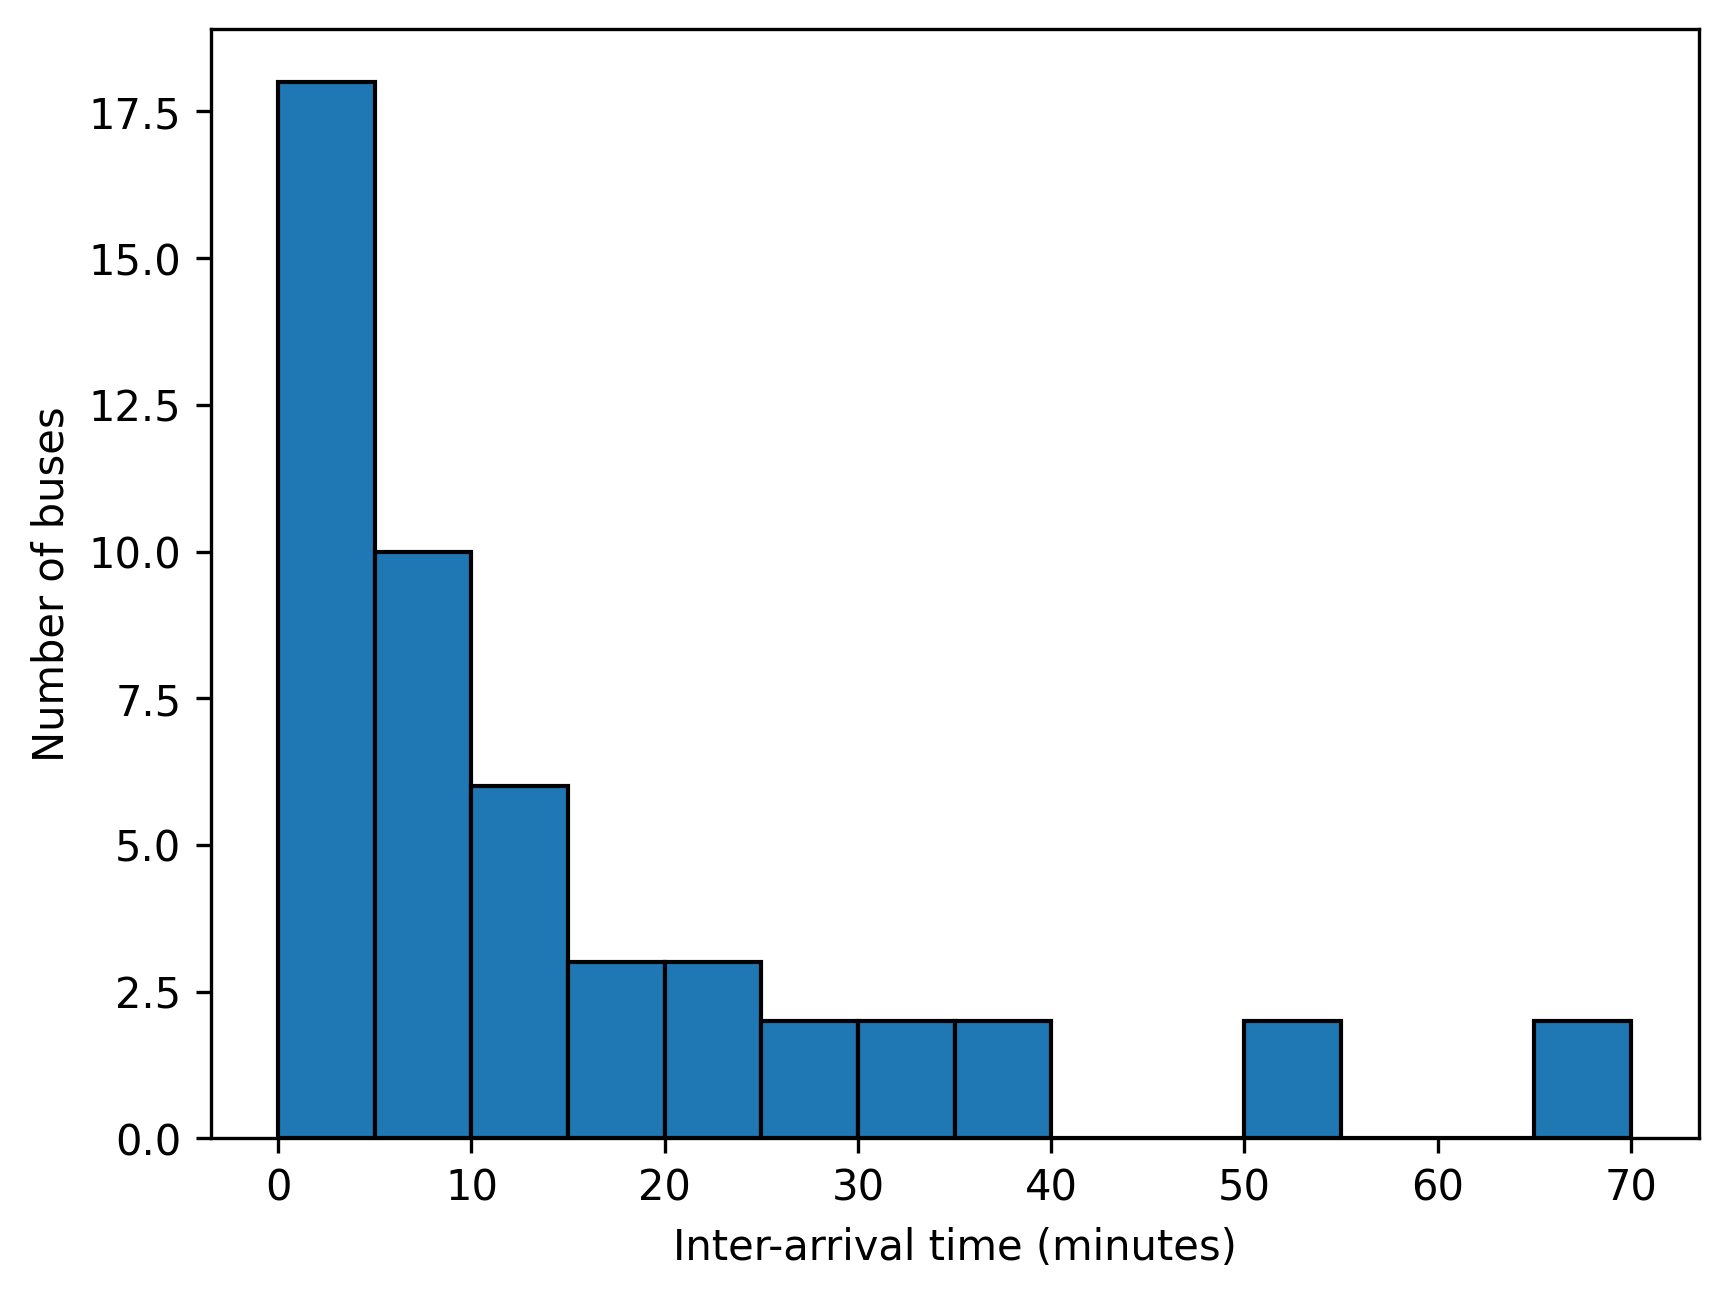
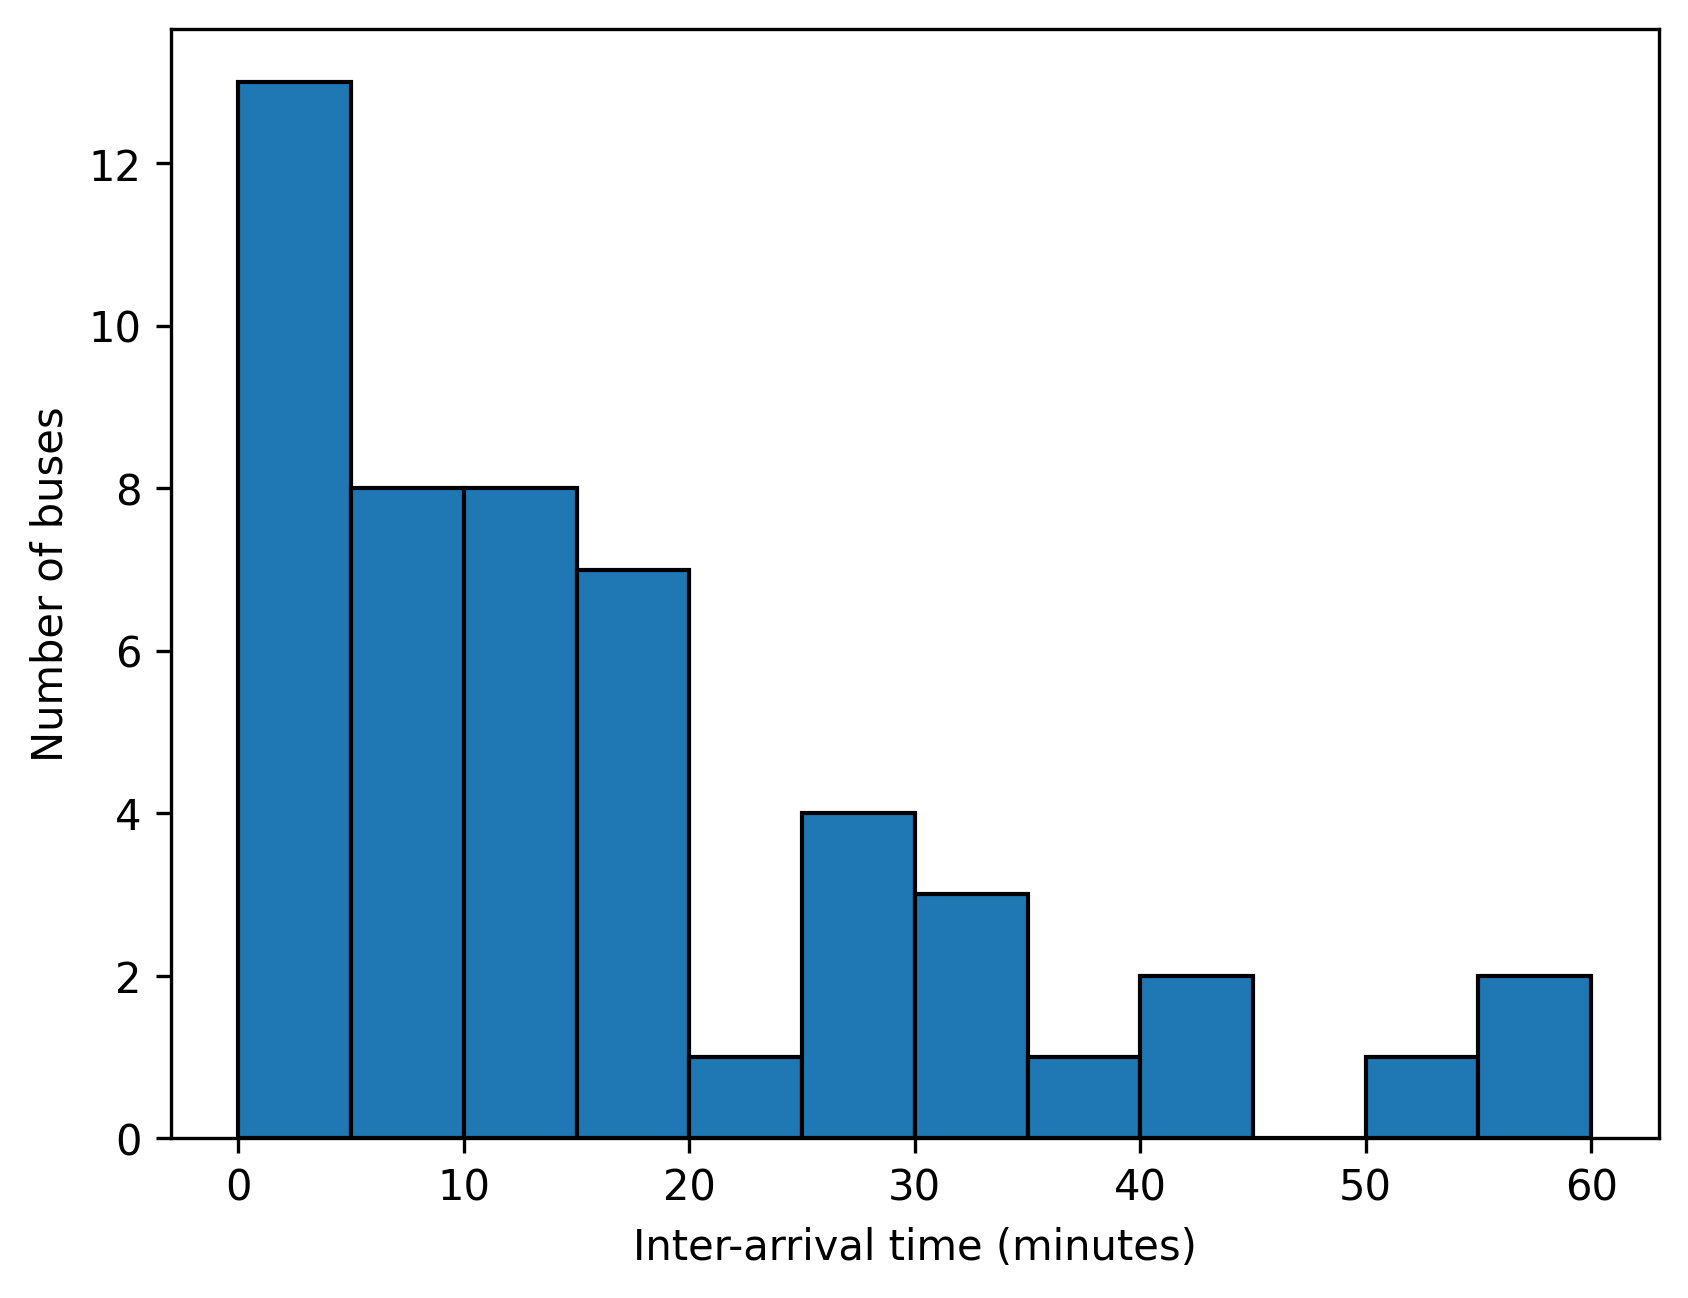
Update assignment5.

Changed region(s): [[0.0308, 0.0, 0.955, 0.9861], [0.3697, 0.8937, 0.4313, 0.9245], [0.9242, 0.8937, 0.955, 0.9245]]

diff --git a/assignment5/assignment5.py b/assignment5/assignment5.py
@@ -167,7 +167,7 @@ ax.set_xlabel("Ranked Words (Top 20)")
 ax.set_ylabel("Frequency")
 fig.savefig(f"{last_name}_{first_name}_assign5_task4.png", dpi=300, bbox_inches="tight")
 
-
+# fmt: off
 # Task 5: Plotting Function Values
 # Subtask 5.1 - Make data
 x = np.linspace(0, 1, 100)
@@ -175,13 +175,12 @@ function_values = np.zeros((5, 100))
 function_values[0] = 2 * (x - 1 / 2)
 function_values[1] = (3**2 / 2) * (x - 1 / 3) * (x - 2 / 3)
 function_values[2] = (4**3 / (2 * 3)) * (x - 1 / 4) * (x - 2 / 4) * (x - 3 / 4)
-function_values[3] = (5**4 / (2 * 3 * 4)) * (
-    (x - 1 / 5) * (x - 2 / 5) * (x - 3 / 5) * (x - 4 / 5)
-)
-function_values[4] = (6**5 / (2 * 3 * 4 * 5)) * (
-    (x - 1 / 6) * (x - 2 / 6) * (x - 3 / 6) * (x - 4 / 6) * (x - 5 / 6)
-)
+# I had extra parentheses around the x terms which I think was causing the post submission error.
+function_values[3] = (5**4 / (2 * 3 * 4)) * (x - 1 / 5) * (x - 2 / 5) * (x - 3 / 5) * (x - 4 / 5)
+# I had extra parentheses around the x terms which I think was causing the post submission error.
+function_values[4] = (6**5 / (2 * 3 * 4 * 5)) * (x - 1 / 6) * (x - 2 / 6) * (x - 3 / 6) * (x - 4 / 6) * (x - 5 / 6)
 
+# fmt: on
 fig, ax = plt.subplots(1, 1)
 labels = ["f1", "f2", "f3", "f4", "f5"]
 for i in range(function_values.shape[0]):
